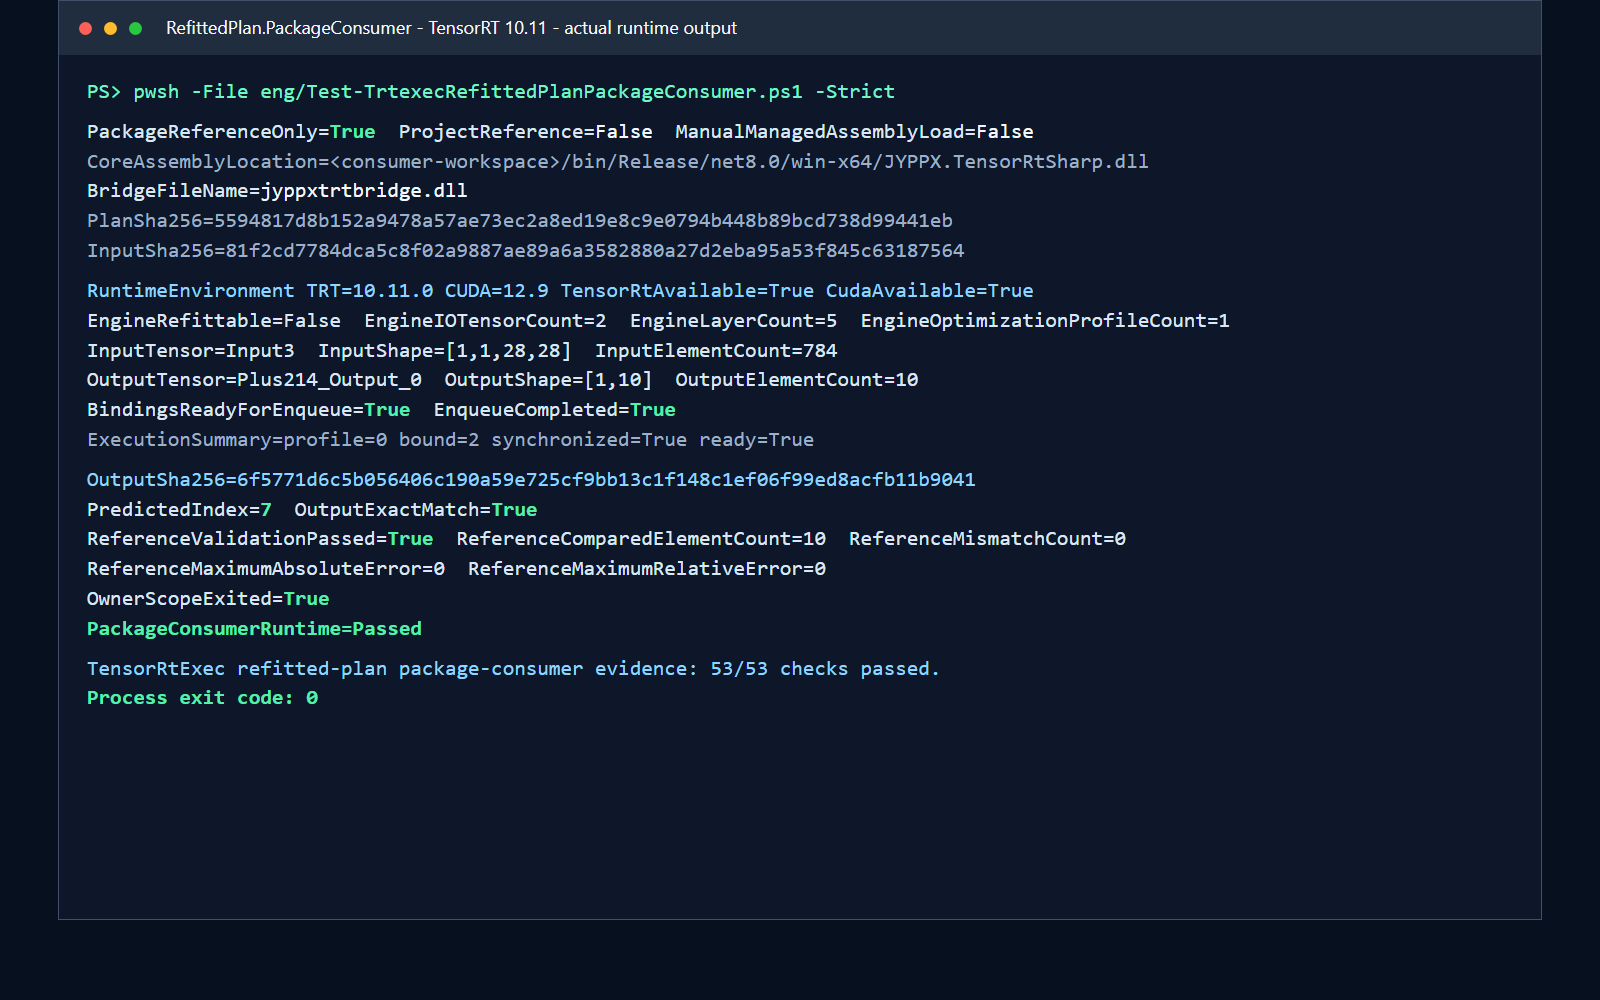
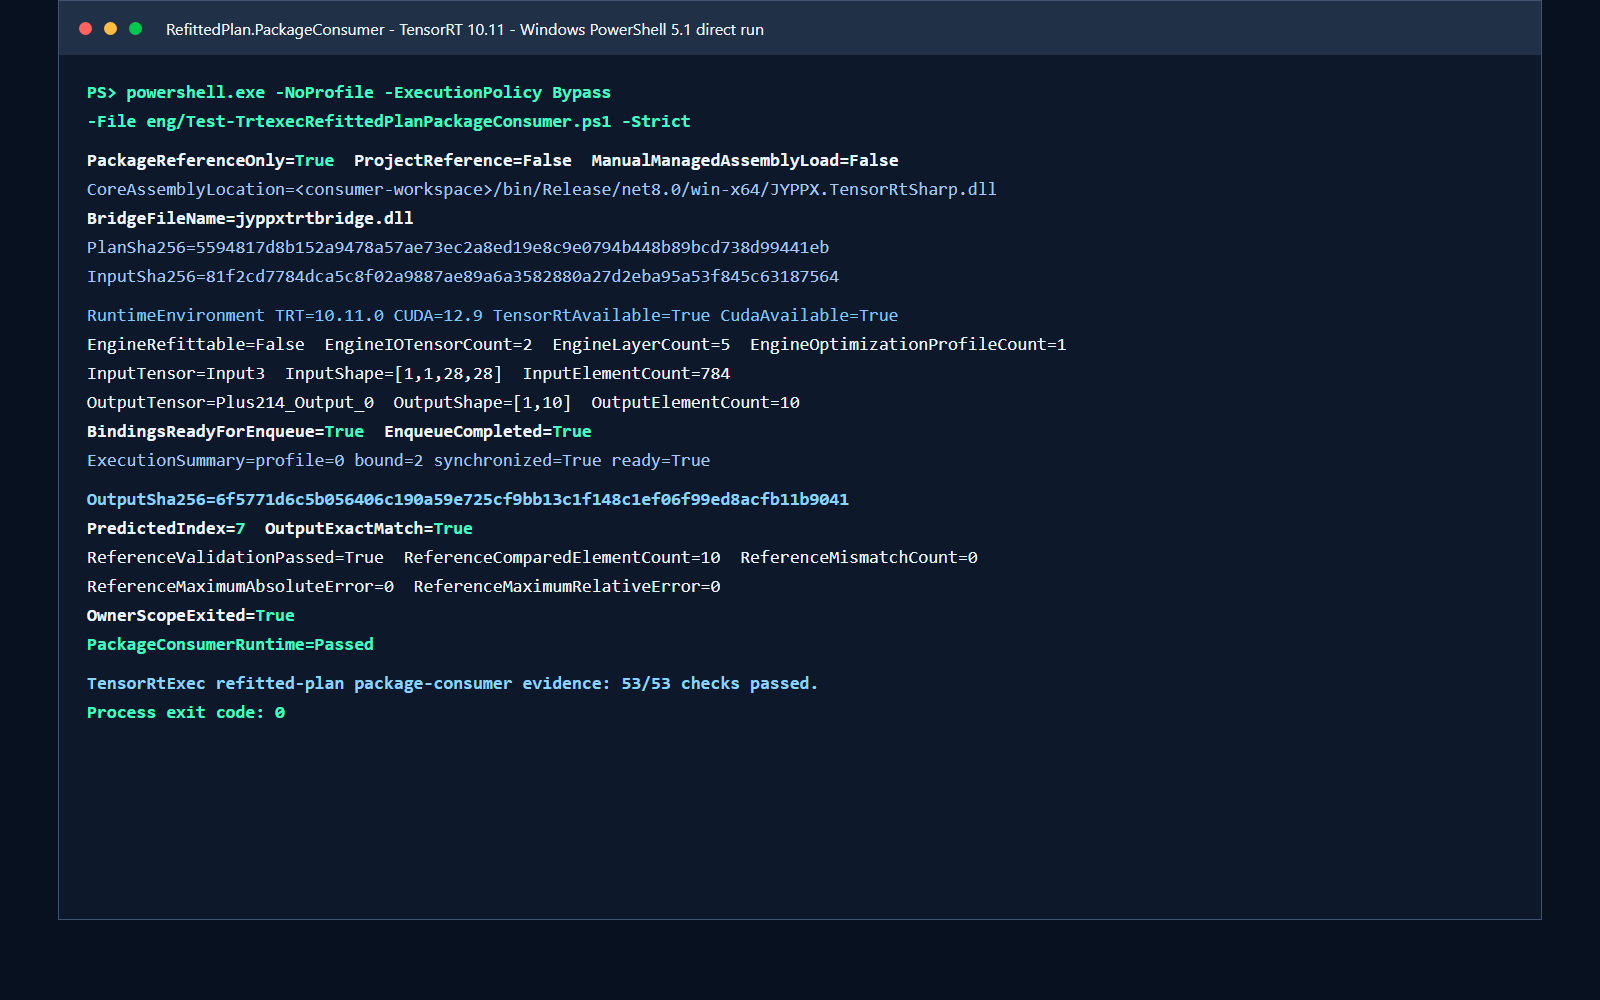
fix: support Windows PowerShell package proof

Changed region(s): [[0.0312, 0.0, 0.75, 0.713]]

diff --git a/tests/JYPPX.ProjectQuality.Tests/TrtexecRefittedPlanPackageConsumerTests.cs b/tests/JYPPX.ProjectQuality.Tests/TrtexecRefittedPlanPackageConsumerTests.cs
@@ -68,6 +68,16 @@ public sealed class TrtexecRefittedPlanPackageConsumerTests
         Assert.Contains("compact-evidence-path-free", validator, StringComparison.Ordinal);
         Assert.Contains("plan-hash-cross-check", validator, StringComparison.Ordinal);
         Assert.Contains("output-hash-cross-check", validator, StringComparison.Ordinal);
+        Assert.Contains("[IO.Directory]::EnumerateFileSystemEntries", runner, StringComparison.Ordinal);
+        Assert.Contains("$PSVersionTable.PSVersion.Major", runner, StringComparison.Ordinal);
+        Assert.Contains("[Security.Cryptography.SHA256]::Create()", runner, StringComparison.Ordinal);
+        Assert.Contains("MakeRelativeUri", runner, StringComparison.Ordinal);
+        Assert.Contains("[IO.Directory]::Delete($extendedPath, $true)", runner, StringComparison.Ordinal);
+        Assert.DoesNotContain("ConvertFrom-Json -Depth", runner, StringComparison.Ordinal);
+        Assert.DoesNotContain("[Security.Cryptography.SHA256]::HashData", runner, StringComparison.Ordinal);
+        Assert.DoesNotContain("[IO.Path]::GetRelativePath", runner, StringComparison.Ordinal);
+        Assert.DoesNotContain("ConvertFrom-Json -Depth", validator, StringComparison.Ordinal);
+        Assert.Contains("[IO.File]::WriteAllText", validator, StringComparison.Ordinal);
     }
 
     [Fact]
@@ -200,6 +210,8 @@ public sealed class TrtexecRefittedPlanPackageConsumerTests
             article,
             StringComparison.Ordinal);
         Assert.Contains("53/53", article, StringComparison.Ordinal);
+        Assert.Contains("powershell.exe -NoProfile -ExecutionPolicy Bypass", article, StringComparison.Ordinal);
+        Assert.Contains("Windows PowerShell 5.1", article, StringComparison.Ordinal);
         Assert.Empty(Regex.Matches(article, @"(?im)[A-Z]:\\"));
     }
 
@@ -233,8 +245,16 @@ public sealed class TrtexecRefittedPlanPackageConsumerTests
         string programPath = Path.Combine(
             RepositoryPaths.Root,
             assets.GetProperty("consumerProgramPath").GetString()!.Replace('/', Path.DirectorySeparatorChar));
+        string runnerPath = Path.Combine(
+            RepositoryPaths.Root,
+            assets.GetProperty("runnerPath").GetString()!.Replace('/', Path.DirectorySeparatorChar));
+        string validatorPath = Path.Combine(
+            RepositoryPaths.Root,
+            assets.GetProperty("validatorPath").GetString()!.Replace('/', Path.DirectorySeparatorChar));
         Assert.Equal(assets.GetProperty("runtimeScreenshotSha256").GetString(), ComputeSha256(screenshotPath));
         Assert.Equal(assets.GetProperty("consumerProgramSha256").GetString(), ComputeSha256(programPath));
+        Assert.Equal(assets.GetProperty("runnerSha256").GetString(), ComputeSha256(runnerPath));
+        Assert.Equal(assets.GetProperty("validatorSha256").GetString(), ComputeSha256(validatorPath));
     }
 
     [Fact]

diff --git a/docs/articles/zh-cn/tensorrtexec-refitted-plan-local-package-consumer.md b/docs/articles/zh-cn/tensorrtexec-refitted-plan-local-package-consumer.md
@@ -175,7 +175,9 @@ using CudaStream stream = new CudaStream(CudaStreamCreationFlags.NonBlocking);
 $BridgeFeed = Join-Path $RepoRoot 'artifacts/runtime-split-nupkg/win-x64-trt10.11-cuda12.9-cudnn9.22'
 $ConsumerWork = Join-Path $WorkspaceRoot 'work/refitted-plan-clean-consumer'
 
-pwsh -NoProfile -ExecutionPolicy Bypass `
+$PowerShellExe = if (Get-Command pwsh -ErrorAction SilentlyContinue) { 'pwsh' } else { 'powershell.exe' }
+
+& $PowerShellExe -NoProfile -ExecutionPolicy Bypass `
   -File .\eng\Test-TrtexecRefittedPlanPackageConsumer.ps1 `
   -ManagedPackageDirectory $ManagedFeed `
   -BridgePackageDirectory $BridgeFeed `
@@ -186,11 +188,13 @@ pwsh -NoProfile -ExecutionPolicy Bypass `
   -Strict
 ```
 
-脚本内部依次执行 isolated restore、Release build、package inventory、runtime search path 配置、推理、native asset hash、path-free compact evidence、53 项严格校验和工作区清理。`JYPPX_NATIVE_BRIDGE_PATH` 与 `JYPPX_ENABLE_DEVELOPMENT_PROBING` 会在推理前清空，bridge 必须来自包的 `runtimes/<rid>/native` 资产。
+脚本同时支持 PowerShell 7 和 Windows PowerShell 5.1。脚本内部依次执行 isolated restore、Release build、package inventory、runtime search path 配置、推理、native asset hash、path-free compact evidence、53 项严格校验和工作区清理。`JYPPX_NATIVE_BRIDGE_PATH` 与 `JYPPX_ENABLE_DEVELOPMENT_PROBING` 会在推理前清空，bridge 必须来自包的 `runtimes/<rid>/native` 资产。
+
+本次实测使用 Windows PowerShell `5.1.26100.8875`，直接通过 `powershell.exe -NoProfile -ExecutionPolicy Bypass -File ... -Strict` 启动脚本，没有修改脚本源码或在内存中替换 API。
 
 ## 已验证结果
 
-下面图片由 2026-08-04 本次真实 TensorRT 运行的 stdout 脱敏排版生成。只把 `CoreAssemblyLocation` 的仓库外临时路径替换为 `<consumer-workspace>`，推理值、SHA256、通过状态和 53/53 校验结果均未修改。
+下面图片由 2026-08-05 本次 Windows PowerShell 5.1 直接运行的真实 TensorRT stdout 脱敏排版生成。截图命令行折叠了本地 feed、运行库和输出根目录参数，并把 `CoreAssemblyLocation` 的仓库外临时路径替换为 `<consumer-workspace>`；推理值、SHA256、通过状态和 53/53 校验结果均未修改。
 
 ![Refitted Plan 本地包消费者真实运行结果](../../images/tensorrtexec-refitted-plan-package-consumer-runtime.png)
 
@@ -229,7 +233,7 @@ artifacts/interface-coverage/trtexec-refitted-plan-package-consumer-validation.j
 - `Bindings are not ready`：Engine tensor、shape 或 buffer binding 不满足 enqueue 条件。
 - `Output SHA256 mismatch`：权重、输入、TensorRT 版本或执行输出与固定回归基线不同，不能降级为成功。
 - `workspaceRemovedAfterValidation=False`：仓库外消费者目录未完成精确清理，证据保持失败。
-- 本机只有 Windows PowerShell 5.1 而没有 `pwsh`：安装 PowerShell 7 后再直接运行脚本；5.1 对脚本中的现代 .NET API 和深层 JSON 序列化不兼容。
+- 本机只有 Windows PowerShell 5.1 而没有 `pwsh`：直接使用 `powershell.exe -NoProfile -ExecutionPolicy Bypass -File ... -Strict`。若旧系统仍受 `MAX_PATH` 影响，将 `OutputRoot` 指向仓库外较短的非系统盘目录；脚本会在安全边界校验后清理该目录。
 
 ## 复查与边界
 
